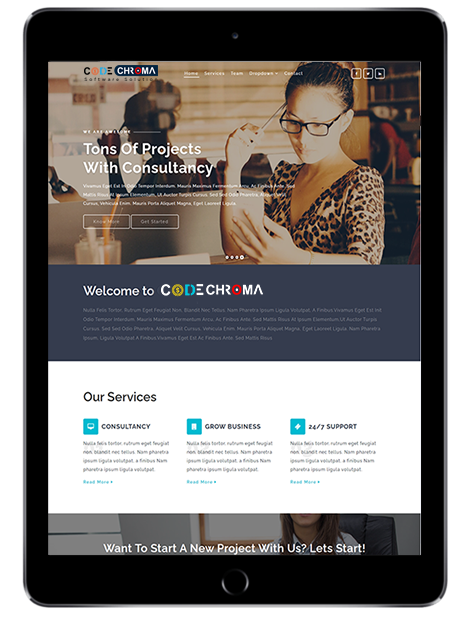
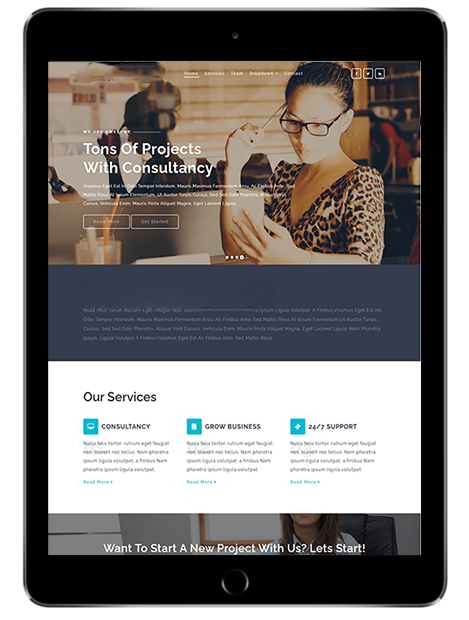
css color change and img of dashboard

Changed region(s): [[0.1791, 0.4597, 0.5672, 0.4903], [0.1493, 0.0919, 0.3582, 0.1532]]

diff --git a/public/css/style.css b/public/css/style.css
@@ -783,7 +783,7 @@
   position: relative;
   overflow: hidden;
   /*border-radius: 0px 0px 300px 0px;*/
-  background-image: linear-gradient(55deg, #770303 0%, #D31027 100%);
+  background-image: linear-gradient(55deg, #773403 0%, #D35910 100%);
 }
 .breadcrumb-area .title {
   font-size: 40px;
@@ -3026,8 +3026,8 @@ select:focus {
   height: 100%;
   top: 0px;
   left: 0px;
-  background: #D31027;
-  /*background: linear-gradient(to right, #EA384D, #D31027);*/
+  background: #D35910;
+  /*background: linear-gradient(to right, #EA384D, #D35910);*/
   border-radius: 0px 0px 300px 0px;
 }
 .home5 .hero-area .shape {
@@ -3049,8 +3049,8 @@ select:focus {
   }
 }
 .home5 .hero-area .discount-circle-inner { 
-  background: #D31027;
-  background: linear-gradient(to right, #EA384D, #D31027);
+  background: #D35910;
+  background: linear-gradient(to right, #EA384D, #D35910);
 }
 .home5 .about {
   position: relative;
@@ -3062,14 +3062,14 @@ select:focus {
   border-radius: 30px 0px 30px 0px;
 }
 .home5 .about .box .inner-box .icon i {
-  background: #D31027;
-  background: linear-gradient(to right, #EA384D, #D31027);
+  background: #D35910;
+  background: linear-gradient(to right, #EA384D, #D35910);
   -webkit-background-clip: text;
   -webkit-text-fill-color: transparent;
 }
 .home5 .about .box::after {
-  background: #D31027;
-  background: linear-gradient(to right, #EA384D, #D31027);
+  background: #D35910;
+  background: linear-gradient(to right, #EA384D, #D35910);
   opacity: 1;
   width: 100%;
   height: 0%;
@@ -3105,8 +3105,8 @@ select:focus {
   height: 100%;
   top: 0px;
   left: 0px;
-  background: #D31027;
-  background: linear-gradient(to right, #EA384D, #D31027);
+  background: #D35910;
+  background: linear-gradient(to right, #EA384D, #D35910);
   border-radius: 200px 0px 200px 0px;
 }
 .home5 .whaybest .shape {
@@ -3131,8 +3131,8 @@ select:focus {
   color: #fff;
 }
 .home5 .feature .feature-box .icon-area .icon i {
-  background: #D31027;
-  background: linear-gradient(to right, #EA384D, #D31027);
+  background: #D35910;
+  background: linear-gradient(to right, #EA384D, #D35910);
   -webkit-background-clip: text;
   -webkit-text-fill-color: transparent;
 }
@@ -3148,8 +3148,8 @@ select:focus {
   height: 100%;
   top: 0px;
   left: 0px;
-  background: #D31027;
-  /*background: linear-gradient(to right, #EA384D, #D31027);*/
+  background: #D35910;
+  /*background: linear-gradient(to right, #EA384D, #D35910);*/
   border-radius: 200px 0px 200px 0px;
 }
 .home5 .dealofweek .shape {
@@ -3169,8 +3169,8 @@ select:focus {
   box-shadow: 0px 0px 0px 10px rgba(255, 255, 255, 0.219), 0px 0px 0px 20px rgba(255, 255, 255, 0.219), 0px 0px 0px 30px rgba(255, 255, 255, 0.219);
 }
 .home5 .pricing .product-slider .owl-controls .owl-nav div:hover {
-  background: #D31027;
-  background: linear-gradient(to right, #EA384D, #D31027);
+  background: #D35910;
+  background: linear-gradient(to right, #EA384D, #D35910);
 }
 .home5 .video {
   position: relative;
@@ -3184,8 +3184,8 @@ select:focus {
   height: 100%;
   top: 0px;
   left: 0px;
-  background: #D31027;
-  background: linear-gradient(to right, #EA384D, #D31027);
+  background: #D35910;
+  background: linear-gradient(to right, #EA384D, #D35910);
   border-radius: 200px 0px 200px 0px;
 }
 .home5 .video .shape {
@@ -3204,8 +3204,8 @@ select:focus {
 .home5 .video .video-play-btn i,
 .home5 .video .fun-box .inner-content2 .icon i,
 .home5 .video .fun-box .inner-content3 .icon i {
-  background: #D31027;
-  background: linear-gradient(to right, #EA384D, #D31027);
+  background: #D35910;
+  background: linear-gradient(to right, #EA384D, #D35910);
   -webkit-background-clip: text;
   -webkit-text-fill-color: transparent;
 }
@@ -3221,8 +3221,8 @@ select:focus {
   height: 100%;
   top: 0px;
   left: 0px;
-  background: #D31027;
-  background: linear-gradient(to right, #EA384D, #D31027);
+  background: #D35910;
+  background: linear-gradient(to right, #EA384D, #D35910);
   border-radius: 200px 0px 200px 0px;
 }
 .home5 .testimonial-area .shape {
@@ -3246,12 +3246,12 @@ select:focus {
   box-shadow: 0px 0px 10px 0px rgba(0, 0, 0, 0.15);
 }
 .home5 .testimonial-area .testimonial-slider .owl-controls .owl-nav div:hover {
-  background: #D31027;
-  background: linear-gradient(to right, #EA384D, #D31027);
+  background: #D35910;
+  background: linear-gradient(to right, #EA384D, #D35910);
 }
 .home5 .testimonial-area .testimonial-slider .client .client-image::after {
-  background: #D31027;
-  background: linear-gradient(to right, #EA384D, #D31027);
+  background: #D35910;
+  background: linear-gradient(to right, #EA384D, #D35910);
 }
 .home5 .subscribe-section .download-buttons {
   margin-top: 55px;
@@ -3263,8 +3263,8 @@ select:focus {
   line-height: 26px;
 }
 .home5 .subscribe-section .download-buttons a {
-  background: #D31027;
-  background: linear-gradient(to right, #EA384D, #D31027);
+  background: #D35910;
+  background: linear-gradient(to right, #EA384D, #D35910);
   display: inline-block;
   padding: 18px 30px;
   font-size: 18px;
@@ -3276,8 +3276,8 @@ select:focus {
   font-size: 24px;
 }
 .home5 .subscribe-section .newsletter-form-area button {
-  background: #D31027;
-  background: linear-gradient(to right, #EA384D, #D31027);
+  background: #D35910;
+  background: linear-gradient(to right, #EA384D, #D35910);
   cursor: pointer;
 }
 .home5 .faq {
@@ -3292,8 +3292,8 @@ select:focus {
   height: 100%;
   top: 0px;
   left: 0px;
-  background: #D31027;
-  background: linear-gradient(to right, #EA384D, #D31027);
+  background: #D35910;
+  background: linear-gradient(to right, #EA384D, #D35910);
   border-radius: 200px 0px 200px 0px;
   z-index: -1;
 }
@@ -3314,8 +3314,8 @@ select:focus {
   display: none;
 }
 .home5 .contact .info-box .left .icon i {
-  background: #D31027;
-  background: linear-gradient(to right, #EA384D, #D31027);
+  background: #D35910;
+  background: linear-gradient(to right, #EA384D, #D35910);
   -webkit-background-clip: text;
   -webkit-text-fill-color: transparent;
 }
@@ -3324,8 +3324,8 @@ select:focus {
   animation: shapeani2 10s linear infinite;
 }
 .home5 .footer {
-  background: #D31027;
-  background: linear-gradient(to top, #770303, #D31027);
+  background: #D35910;
+  background: linear-gradient(to top, #773403, #D35910);
 }
 .home5 .footer .footer-info-area .text p,
 .home5 .footer .copy-bg p,
@@ -3333,14 +3333,14 @@ select:focus {
   color: #fff;
 }
 .home5 .bottomtotop i {
-  background: #D31027;
-  background: linear-gradient(to right, #EA384D, #D31027);
+  background: #D35910;
+  background: linear-gradient(to right, #EA384D, #D35910);
 }
 
 .home5 .pricing .product-slider .item .single-product .content .price .new-price,
 .home5 .dealofweek .deal-slider-area .content .right-area .price p span {
-  background: #D31027;
-  background: linear-gradient(to right, #EA384D, #D31027);
+  background: #D35910;
+  background: linear-gradient(to right, #EA384D, #D35910);
   -webkit-background-clip: text;
   -webkit-text-fill-color: transparent;
 }
@@ -3352,20 +3352,20 @@ select:focus {
   /*filter: brightness(0) invert(1);*/
 }
 .home5 .navigation .navbar #mainmenu ul .nav-item.dropdown:hover .dropdown-menu .dropdown-item:hover {
-  background: #D31027;
-  background: linear-gradient(to right, #EA384D, #D31027);
+  background: #D35910;
+  background: linear-gradient(to right, #EA384D, #D35910);
 }
 .home5 .preloader-inner {
-  background: #D31027;
-  background: linear-gradient(to right, #EA384D, #D31027);
+  background: #D35910;
+  background: linear-gradient(to right, #EA384D, #D35910);
 }
 .home5 .navigation.stiky-nav .navbar #mainmenu ul .nav-item .nav-link:hover::before, .home5 .navigation.stiky-nav .navbar #mainmenu ul .nav-item .nav-link.active::before {
-  background: #D31027;
-  background: linear-gradient(to right, #EA384D, #D31027);
+  background: #D35910;
+  background: linear-gradient(to right, #EA384D, #D35910);
 }
 .home5 .navigation.stiky-nav .navbar #mainmenu ul .nav-item .nav-link::before {
-  background: #D31027;
-  background: linear-gradient(to right, #EA384D, #D31027);
+  background: #D35910;
+  background: linear-gradient(to right, #EA384D, #D35910);
 }
 .home5 .footer {
   position: relative;
